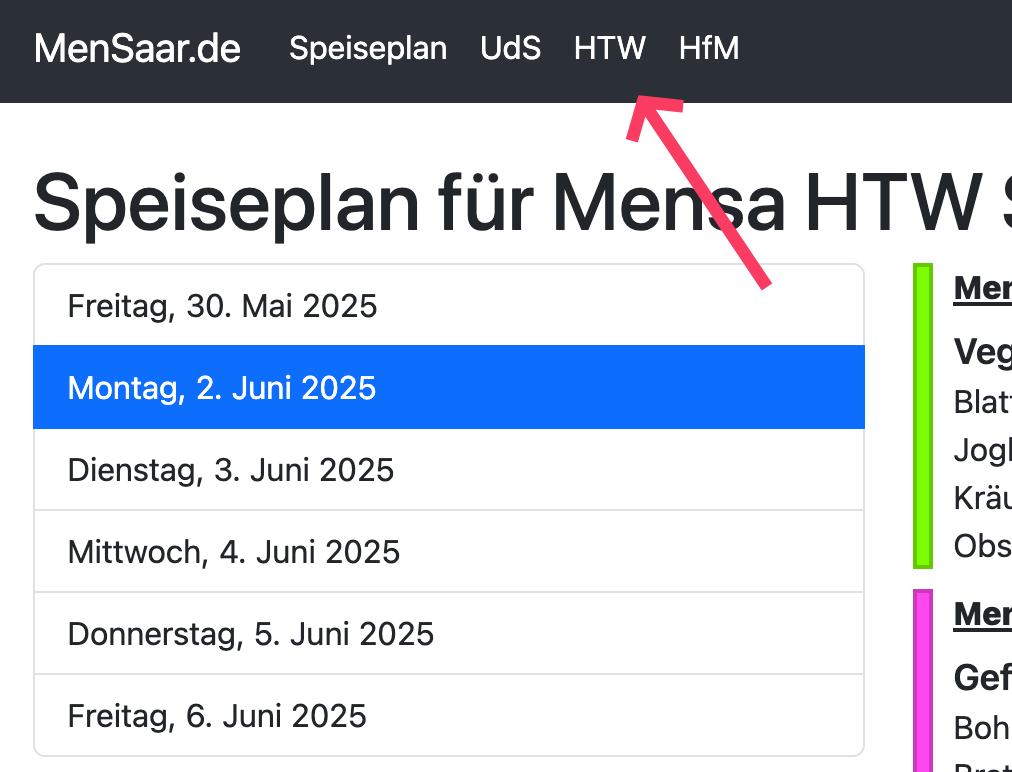
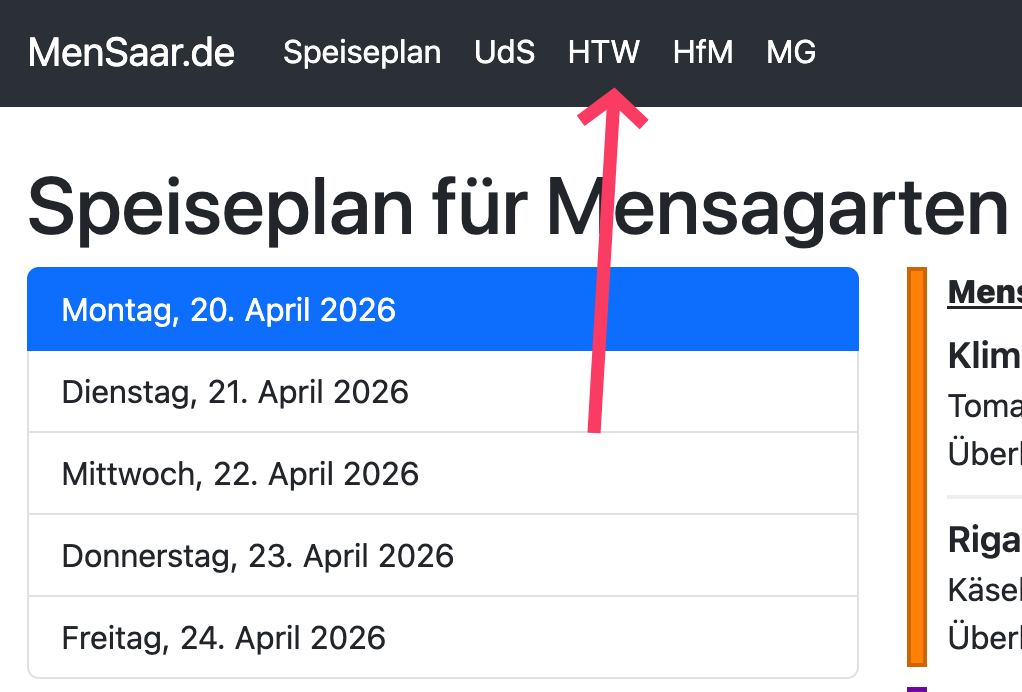
Add Mensagarten to Mensaaar Navbar Canteens

diff --git a/userscripts/mensaar-add-uds-htw.user.js b/userscripts/mensaar-add-uds-htw.user.js
@@ -3,9 +3,9 @@
 // @namespace        https://github.com/ikelax/userscripts
 // @match            https://mensaar.de/
 // @grant            none
-// @version          0.4.0
+// @version          0.5.0
 // @author           Alexander Ikonomou
-// @description      A userscript that adds links to the meal plans of the UdS, HTW and HfM to the navigation bar
+// @description      A userscript that adds links to the meal plans of the UdS, HTW, HfM and Mensagarten to the navigation bar
 // @license          MIT
 // @supportURL       https://github.com/ikelax/userscripts/issues
 // @updateURL        https://raw.githubusercontent.com/ikelax/userscripts/refs/heads/master/userscripts/mensaar-add-uds-htw.user.js
@@ -27,6 +27,7 @@
   addMensa("UdS", "sb");
   addMensa("HTW", "htwcas");
   addMensa("HfM", "musiksb");
+  addMensa("MG", "mensagarten");
 
   if (navbar != null) {
     return;

diff --git a/docs/Mensaar_Navbar_Canteens.md b/docs/Mensaar_Navbar_Canteens.md
@@ -1,7 +1,7 @@
 # Mensaar Navbar Canteens
 
 A userscript that adds links to the meal plans of the UdS,
-HTW and HfM to the navigation bar.
+HTW, HfM and Mensagarten to the navigation bar.
 
 ## Screenshot
 
